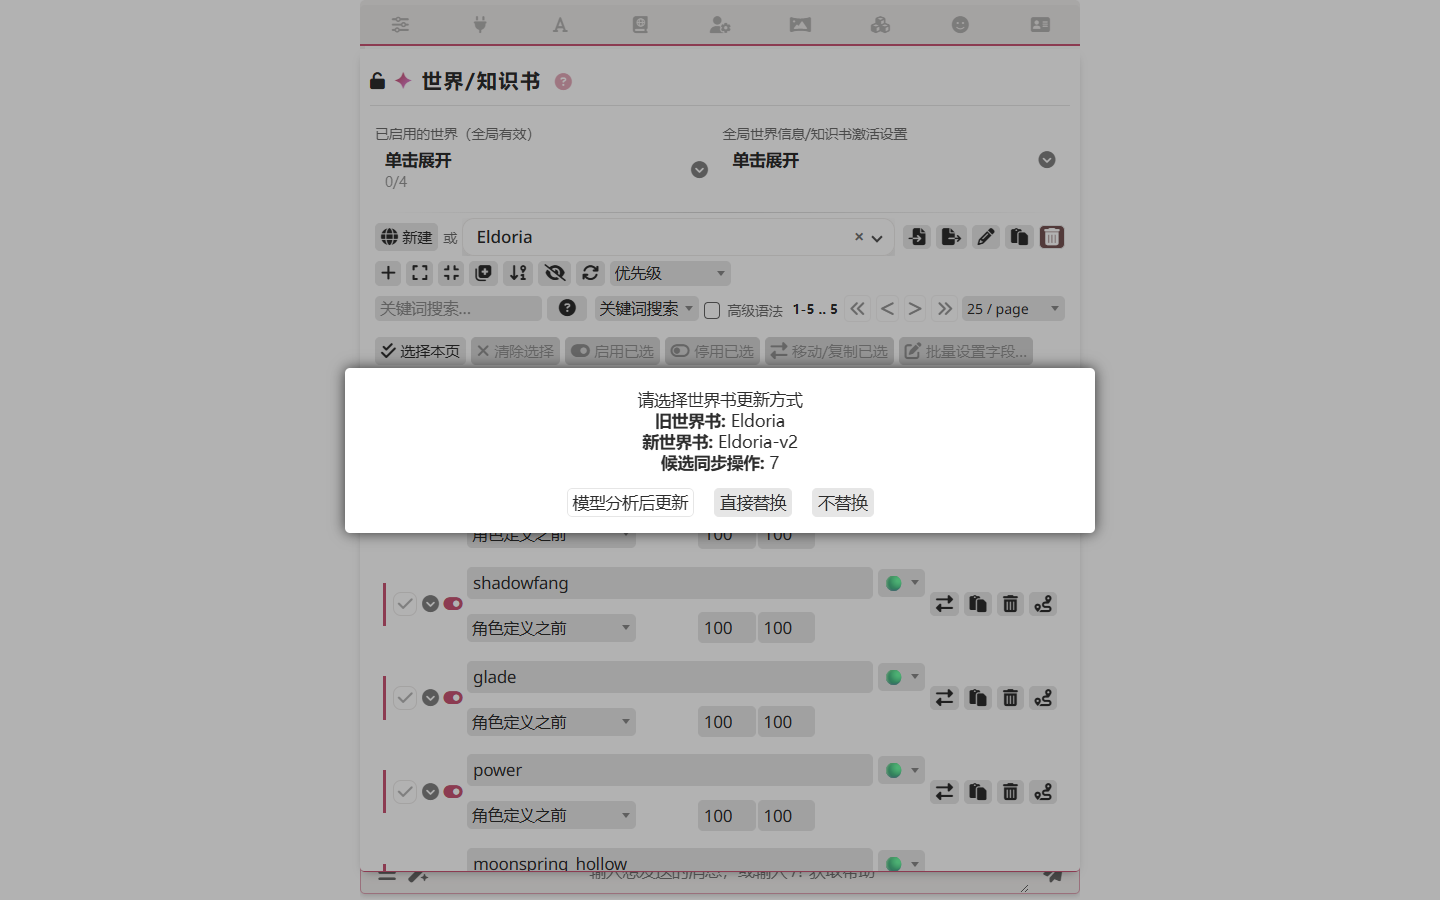
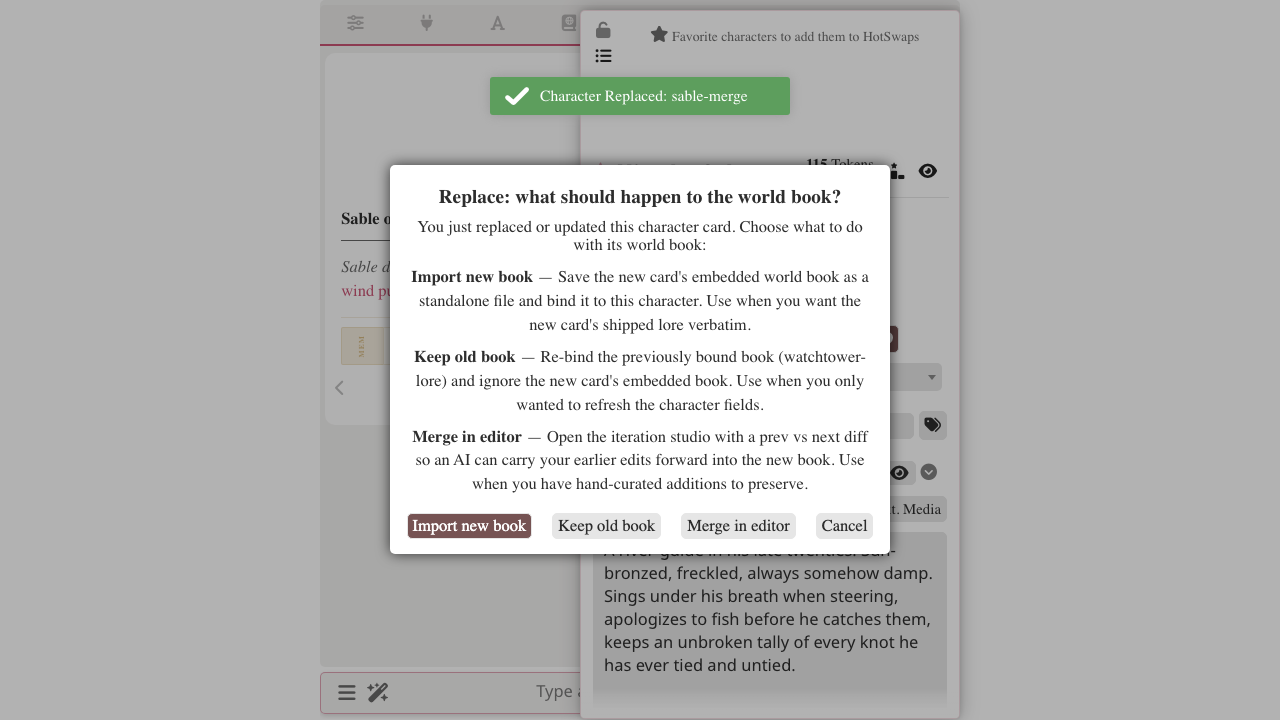
docs(character-editor): document the new three-choice replace popup and the full replace diff overview

Changed region(s): [[0.2188, 0.0, 0.7812, 1.0], [0.2812, 0.8556, 0.4062, 0.9167], [0.7188, 0.1528, 0.75, 0.1833]]

diff --git a/docs/features/card-editor/popup.md b/docs/features/card-editor/popup.md
@@ -50,13 +50,21 @@ Expanding "Conversation history" at the bottom of the popup reveals all editing 
 
 ## World Info Sync
 
-When you import a new character card via replace or update, if the old and new cards bind to different World Info books, the editor assistant pops up a sync dialog with three options:
+When you import a new character card via replace or update, if the new card carries an embedded world book (or the cards bind to different world books), the editor assistant pops up a sync dialog with three options:
 
 ![World Info sync popup: three options](/images/card-editor-popup/cea-lorebook-sync.png)
 
-- **Analyze with model and update** — The AI analyzes the differences between old and new World Info books and merges them intelligently
-- **Direct replace** — Replace the old World Info book entirely with the new one
-- **Don't replace** — Keep the existing World Info book unchanged
+- **Import new book** — Save the new card's embedded world book as a standalone file and bind it to this character. Use when you want the new card's shipped lore verbatim.
+- **Keep old book** — Re-bind the previously bound book and ignore the new card's embedded book. Use when you only wanted to refresh the character fields.
+- **Merge in editor** — Open the iteration studio with a prev-vs-next diff so an AI can carry your earlier edits forward into the new book. Use when you have hand-curated additions to preserve.
+
+Cancelling the dialog leaves everything untouched.
+
+When you take the **Merge in editor** path, the studio's topbar carries a **View full replace diff** button. It opens a structured, full-screen overview of the differences between the character card + world book you were using before and the ones you just imported — the same information the AI receives as its first-turn brief, but shown to you with per-field cards, per-entry line diffs, and word-level red/green highlights:
+
+![Full replace-diff popup — previous vs current card and world book](/images/card-editor-popup/cea-replace-diff.png)
+
+If you close the studio without applying any AI-proposed change, the pre-import (new book file + character binding) is rolled back automatically, so cancelling a merge session leaves your working state exactly as it was before the replace.
 
 Whether the sync popup shows up is controlled by the "Enable World Info sync popup after replacing/updating a character card" toggle on the extensions panel.
 
